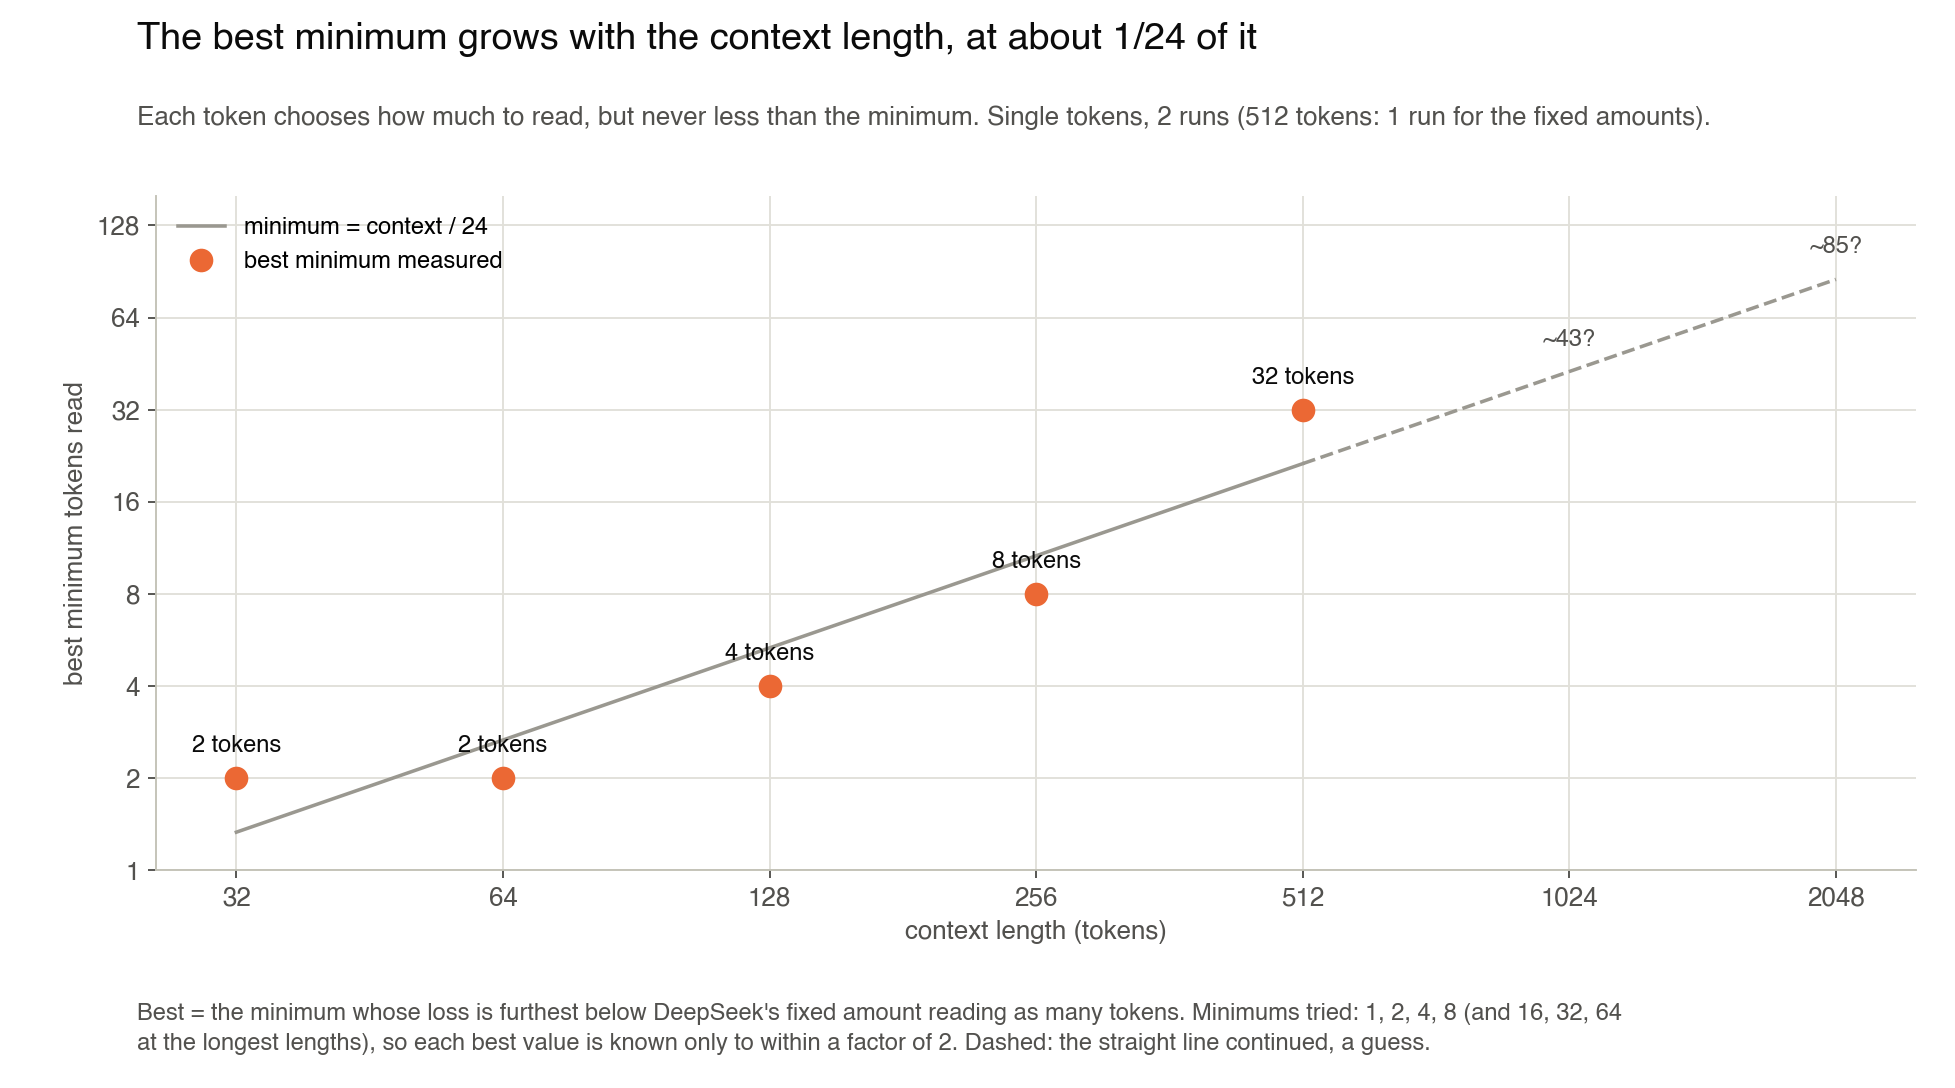
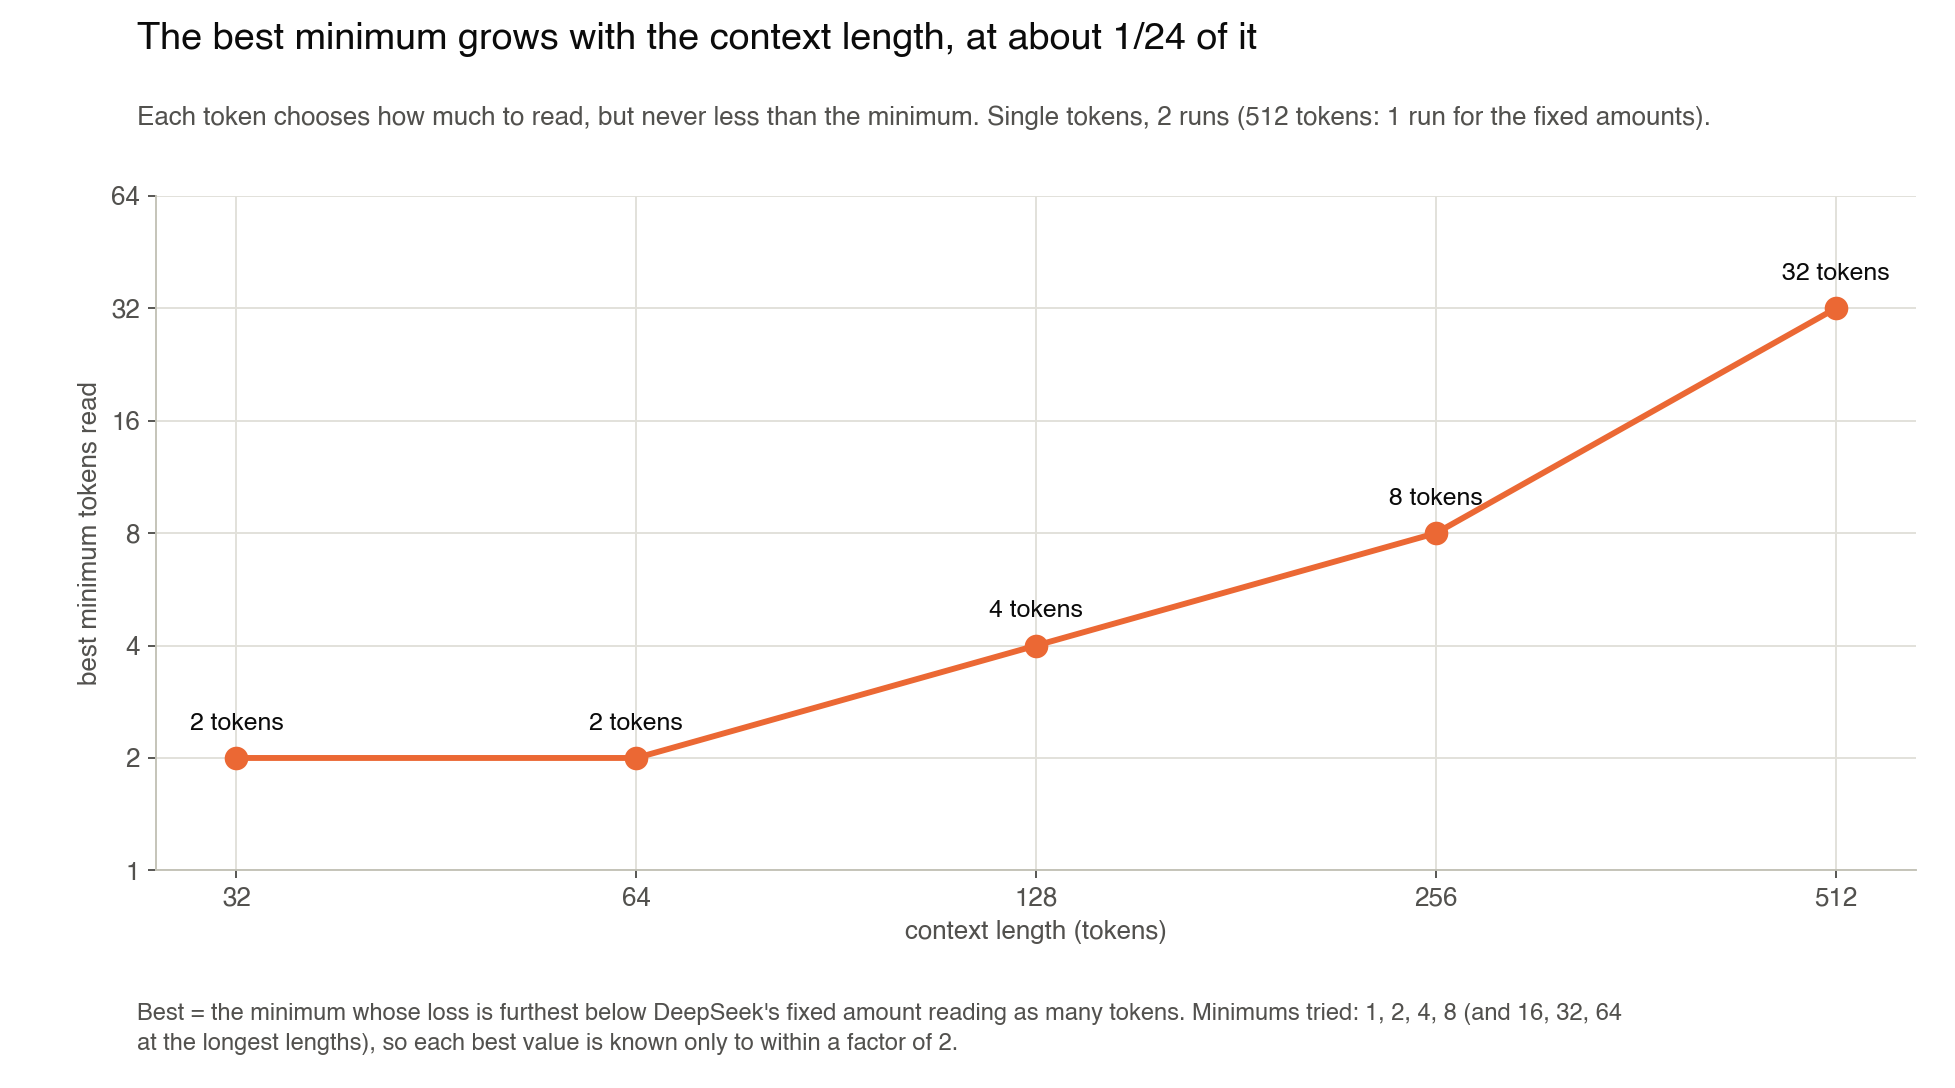
Best-minimum chart: one line, no fit or extrapolation

diff --git a/chart.py b/chart.py
@@ -149,18 +149,13 @@ fig.subplots_adjust(left=0.08, right=0.98, top=0.82, bottom=0.2)
 frame(fig, "The best minimum grows with the context length, at about 1/24 of it",
       "Each token chooses how much to read, but never less than the minimum. Single tokens, 2 runs (512 tokens: 1 run for the fixed amounts).",
       "Best = the minimum whose loss is furthest below DeepSeek's fixed amount reading as many tokens. Minimums tried: 1, 2, 4, 8 (and 16, 32, 64\n"
-      "at the longest lengths), so each best value is known only to within a factor of 2. Dashed: the straight line continued, a guess.")
-xs = [2 ** i for i in range(5, 12)]
-fit = [x / 24 for x in xs]
-ax.plot(xs[:5], fit[:5], color=GRAY, lw=1.5, label="minimum = context / 24")
-ax.plot(xs[4:], fit[4:], color=GRAY, lw=1.5, ls="--")
-ax.plot([a for a, _ in BEST_MIN], [b for _, b in BEST_MIN], color=ORANGE, marker="o", ms=9, lw=0, label="best minimum measured")
-for a, b in BEST_MIN: ax.annotate(f"{b} tokens", (a, b), textcoords="offset points", xytext=(0, 11), ha="center", fontsize=10, color=INK)
-for a in xs[5:]: ax.annotate(f"~{a / 24:.0f}?", (a, a / 24), textcoords="offset points", xytext=(0, 11), ha="center", fontsize=10, color=INK2)
+      "at the longest lengths), so each best value is known only to within a factor of 2.")
+xs = [a for a, _ in BEST_MIN]
+ax.plot(xs, [b for _, b in BEST_MIN], color=ORANGE, marker="o", ms=9, lw=2.5)
+for a, b in BEST_MIN: ax.annotate(f"{b} tokens", (a, b), textcoords="offset points", xytext=(0, 12), ha="center", fontsize=10.5, color=INK)
 ax.set_xscale("log", base=2); ax.set_yscale("log", base=2)
-ax.set_xticks(xs); ax.set_xticklabels([str(x) for x in xs]); ax.set_yticks([1, 2, 4, 8, 16, 32, 64, 128]); ax.set_yticklabels(["1", "2", "4", "8", "16", "32", "64", "128"])
-ax.set_ylim(1, 160); ax.set_xlabel("context length (tokens)"); ax.set_ylabel("best minimum tokens read")
-ax.legend(loc="upper left", fontsize=10)
+ax.set_xticks(xs); ax.set_xticklabels([str(x) for x in xs]); ax.set_yticks([1, 2, 4, 8, 16, 32, 64]); ax.set_yticklabels(["1", "2", "4", "8", "16", "32", "64"])
+ax.set_ylim(1, 64); ax.set_xlabel("context length (tokens)"); ax.set_ylabel("best minimum tokens read")
 fig.savefig("minimum_scaling.png", dpi=170); plt.close(fig)
 # 7. gain over DeepSeek's fixed amount for each minimum, one line per context length (RESULTS.md step 8)
 GAIN = {32: [(1, -0.269), (2, 0.029), (4, 0.028), (8, 0.006)],
